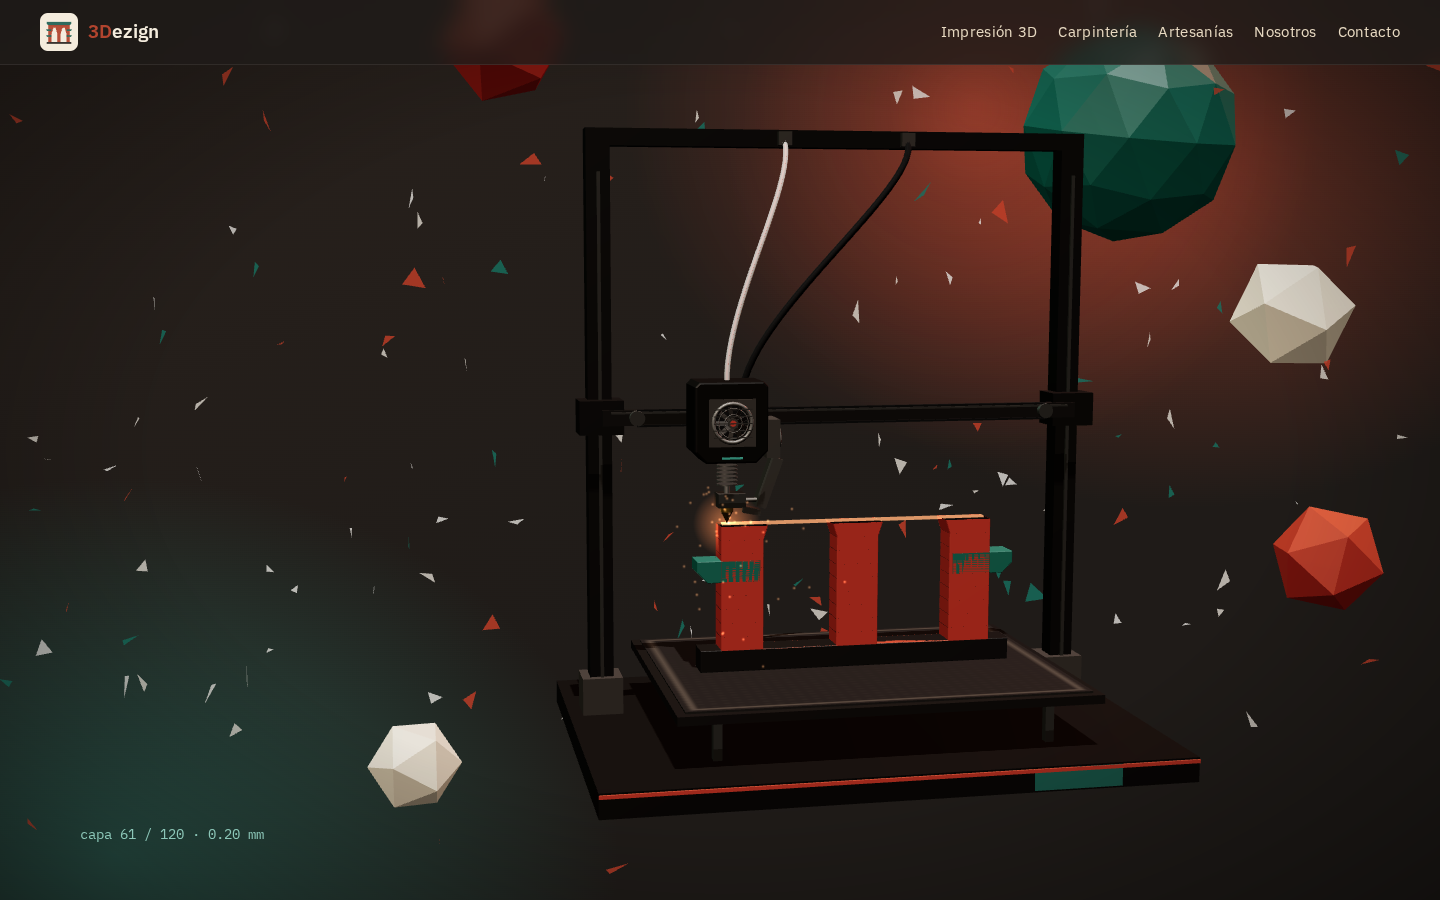
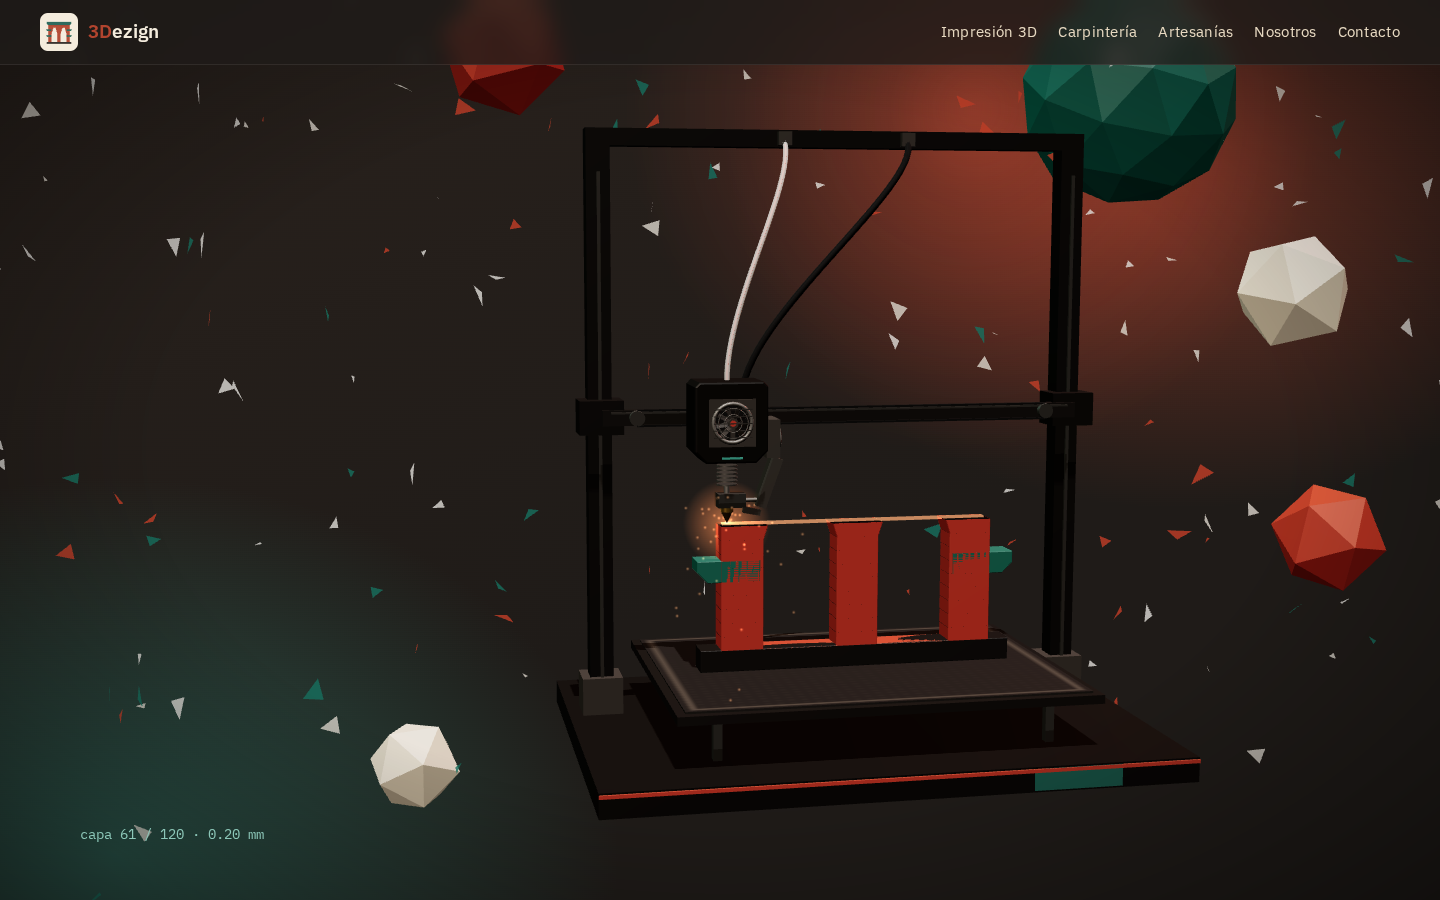
Móvil: gemas reubicadas bajo la impresora; degradado carbón→arena entre hero y secciones

diff --git a/src/scene.js b/src/scene.js
@@ -153,7 +153,7 @@ export function createScene(canvas, { reduced }) {
   const gemSpec = [[-0.4, 4.6, -4, 0.5, 0], [4.8, 4.2, -4, 0.9, 1], [5.6, 0.9, -2, 0.42, 0], [-1.2, -0.6, -3, 0.35, 2], [7.5, 2.6, -6, 0.6, 2]];
   for (const [x, y, z, r, ci] of gemSpec) {
     const g = new THREE.Mesh(new THREE.IcosahedronGeometry(r, ci === 1 ? 1 : 0), new THREE.MeshStandardMaterial({ color: pal[ci], flatShading: true, roughness: 0.5, metalness: 0.1, emissive: pal[ci], emissiveIntensity: 0.12 }));
-    g.position.set(x, y, z); g.userData = { y, sp: 0.2 + Math.random() * 0.3, ph: Math.random() * 6 }; fx.add(g); gems.push(g);
+    g.position.set(x, y, z); g.userData = { y, y0: y, x, z, r, sp: 0.2 + Math.random() * 0.3, ph: Math.random() * 6 }; fx.add(g); gems.push(g);
   }
   // confeti triangular (InstancedMesh, un solo draw call)
   const NT = lite ? 90 : 260;
@@ -204,6 +204,11 @@ export function createScene(canvas, { reduced }) {
     else { printer.position.set(1.7, 0, 0); camBase.set(-0.2, 2.8, 10.8); camTarget.set(0.9, 1.75, 0); }
     placeCamera(0);
     floor.position.copy(printer.position);
+    // móvil: solo 2 gemas pequeñas en la franja libre bajo la impresora (ni tras la tarjeta ni tras la impresora)
+    const mob = [[-1.9, -1.7, -0.5, 0.28], [2.0, -1.45, -1.2, 0.34]];
+    gems.forEach((g, i) => { const u = g.userData, m = mob[i];
+      if (mobile) { g.visible = !!m; if (m) { g.position.set(m[0], m[1], m[2]); u.y = m[1]; g.scale.setScalar(m[3] / u.r); } }
+      else { g.visible = true; g.position.set(u.x, u.y = u.y0, u.z); g.scale.setScalar(1); } });
   }
   // cámara por tramos: orbita de -14° a +10° y dolly hacia dentro a mitad de impresión
   const off = new THREE.Vector3();
@@ -242,7 +247,8 @@ export function createScene(canvas, { reduced }) {
     mouse.sx += (mouse.x - mouse.sx) * Math.min(1, dt * 3); mouse.sy += (mouse.y - mouse.sy) * Math.min(1, dt * 3);
     placeCamera(t);
     for (const g of gems) { const u = g.userData; g.rotation.x = t * u.sp + u.ph; g.rotation.y = t * u.sp * 0.7; g.position.y = u.y + (reduced ? 0 : Math.sin(t * 0.6 + u.ph) * 0.15); }
-    fx.position.x = -mouse.sx * 0.35; fx.position.y = mouse.sy * 0.2;
+    fx.position.x = -mouse.sx * 0.35; // sin efecto en táctil (mouse=0)
+    fx.position.y = mouse.sy * 0.2;
     for (let i = 0; i < NT; i++) { const d = tdata[i]; if (!reduced) { d.y += d.v * dt; if (d.y > 7) d.y = -1; }
       e3.set(d.r + t * d.v * 3, d.r * 2 + t * d.v * 2, d.r); q.setFromEuler(e3); m4.compose(v3.set(d.x, d.y, d.z), q, one.setScalar(d.sc)); conf.setMatrixAt(i, m4); }
     conf.instanceMatrix.needsUpdate = true;

diff --git a/src/style.css b/src/style.css
@@ -65,3 +65,5 @@ footer{background:var(--carbon);color:var(--arena);text-align:center;padding:2re
 @media (prefers-reduced-motion:reduce){.reveal{opacity:1;transform:none}}
 .card:hover{transform:translateY(-6px);box-shadow:0 14px 34px rgb(31 27 24 /.12)}
 @media (prefers-reduced-motion:reduce){.card{transition:none}.card:hover{transform:none}}
+#impresion{background:linear-gradient(to bottom,var(--carbon) 0,#4a3a30 3rem,#a8927a 7rem,var(--arena) 11rem);padding-top:calc(clamp(4rem,10vw,7rem) + 8rem)}
+#hero{box-shadow:none}
